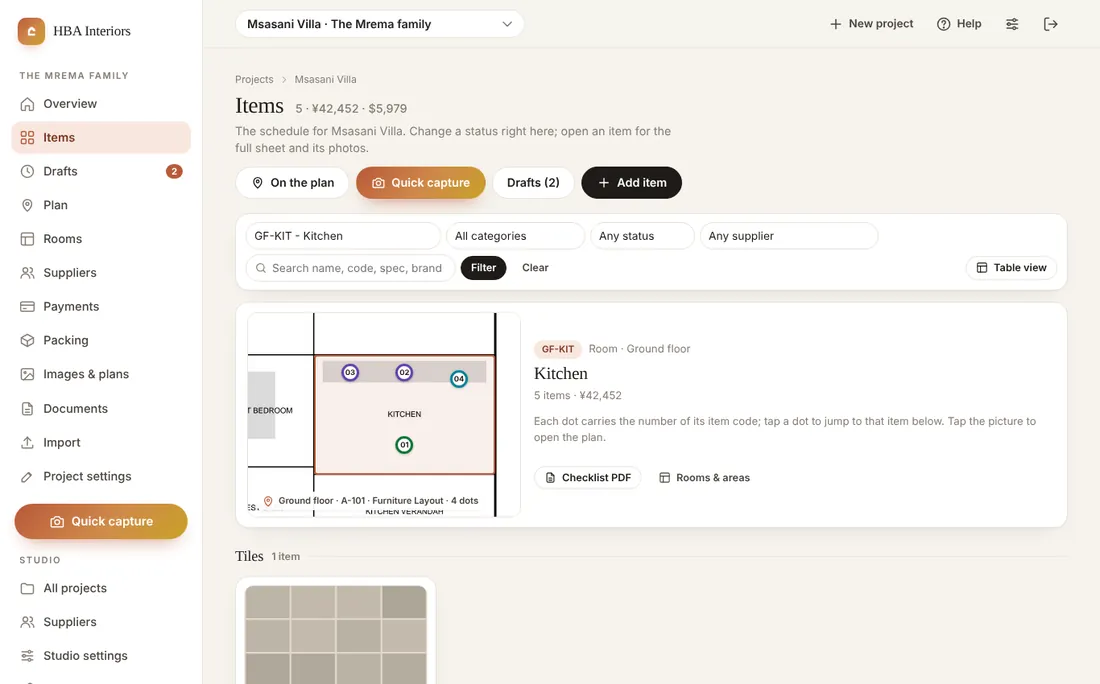
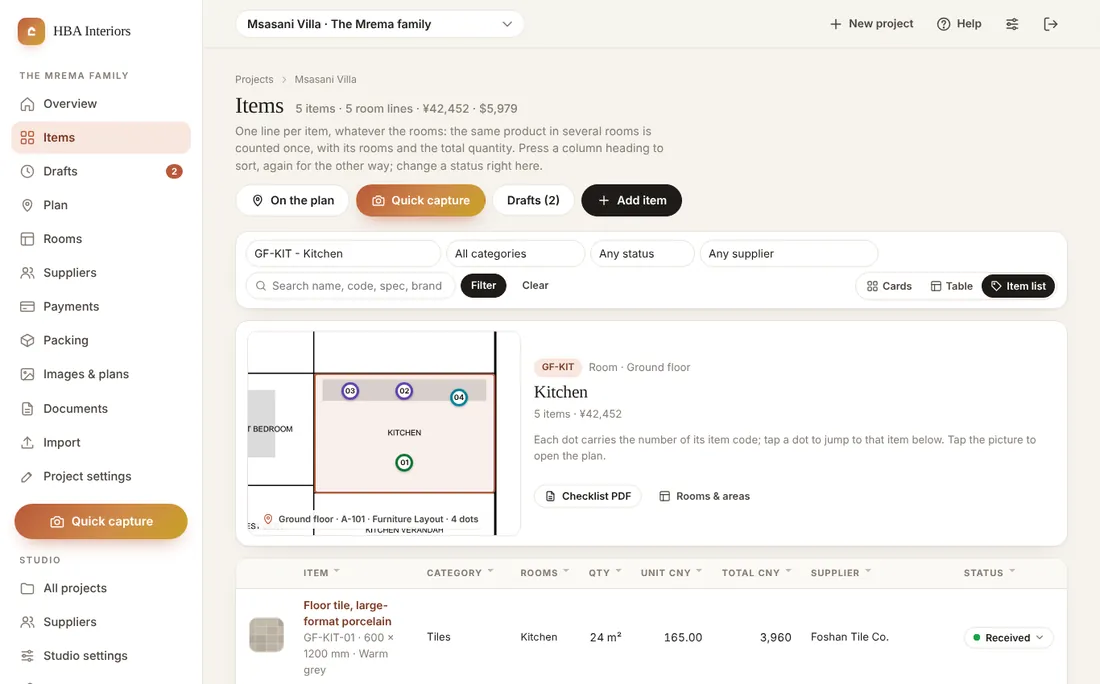
Items: the Item list is the default view
The Items page now opens on the Item list (one line per product across its rooms); Table and Cards stay one
press away in the view switch and every filter keeps the chosen view.

- An item that sits in one room gets the status dropdown right in the Item list, so quick status changes do
  not need the Table view; a product spread over several rooms keeps its count per status.
- Rows carry id="item-<first id>" and data-items="<all ids>", so a dot in the zoomed room still jumps to the
  product's line (app.js looks the row up by either).
- Page help, guide, README and CLAUDE.md say the Item list is the default; the three Items pictures in the
  guide regenerated; tests cover the default and the single-room dropdown.

Claude-Session: https://claude.ai/code/session_014dEEg4ZJoqKU3XFXeCpon9

diff --git a/ffe/app/templates/help.html b/ffe/app/templates/help.html
@@ -139,7 +139,7 @@
     <p>Two rules worth knowing now: the <b>category</b> decides which page of the client schedule the item prints on, and the <b>status</b> starts at <span class="badge" style="--c:{{ STATUS_COLORS['To buy'] }}">To buy</span> and follows the purchase from there.</p>
     <div class="shots">
       {{ shot('item-new', 'New item: tick every room that gets it. Each ticked room gets its own line with its own code.') }}
-      {{ shot('items', 'Items filtered by one room: the room zoomed in on its plan at the top, with a numbered dot per placed item, then the cards.') }}
+      {{ shot('items', 'Items filtered by one room: the room zoomed in on its plan, then its item list.') }}
     </div>
     <div class="shots">
       {{ shot('phone-capture', 'Quick capture on the phone: tag the next photos if you like, then shoot.', 'phone') }}
@@ -357,7 +357,7 @@
   </table></div>
   <h3>The list</h3>
   <ul>
-    <li>Filter by room or area, category, status, supplier or a search word (name, code, spec, brand). Three views, all keeping the filters: <b>Cards</b> groups by category with photos; <b>Table</b> is the compact sheet, one line per room, with the status dropdown; <b>Item list</b> shows one line per item whatever the rooms: the same product in several rooms is counted once, with its rooms, the total quantity and value, its suppliers and a count per status.</li>
+    <li>Filter by room or area, category, status, supplier or a search word (name, code, spec, brand). Three views, all keeping the filters: the <b>Item list</b> (the page opens on it) shows one line per item whatever the rooms: the same product in several rooms is counted once, with its rooms, the total quantity and value, its suppliers and a count per status (an item in one room has the status dropdown right there); <b>Table</b> is the compact sheet, one line per room, with the status dropdown; <b>Cards</b> groups by category with photos.</li>
     <li><b>Sorting.</b> In the Table and the Item list, press a column heading to sort: text A to Z, numbers smallest first, Status in purchase order (To buy first), Rooms by how many. Press the heading again for the other way; blank cells go last.</li>
     <li>Filtered by one room, the top of the list shows that room <b>zoomed in on its plan</b> with a numbered dot per placed item. Tap a dot to jump to the item; tap the picture to open the plan. Rooms not yet marked show a link to mark them.</li>
     <li><b>Quick capture</b> and <b>Add item</b> from here keep the current room and category.</li>
@@ -365,7 +365,7 @@
   <div class="shots">
     {{ shot('items-table', 'Table view, filtered by category: the compact sheet with a status dropdown per row. Press a heading to sort.') }}
     {{ shot('items-list', 'Item list, sorted by rooms: the same product in several rooms is one line, with its rooms, the total quantity and a count per status.') }}
-    {{ shot('phone-items', 'The same room filter on a phone: the zoomed room first, then the cards.', 'phone') }}
+    {{ shot('phone-items', 'The same room filter on a phone: the zoomed room first, then the item list.', 'phone') }}
   </div>
   <h3>Editing an item</h3>
   <ul>
@@ -542,7 +542,7 @@
   <details><summary>The app feels slow.</summary><p>Three different things look the same. The <b>first page after a quiet spell</b> takes a few seconds and the next ones are quick: Replit starts the app and the database wakes up, which is normal; an always-on deployment removes it. <b>Pages with many photos</b> slow on a device that has not seen them yet: open Studio settings and press <b>Make small versions</b> until no older photo is left, so lists load small copies. <b>Every page slow, even without photos:</b> the database is far from the app or asleep; tell your developer.</p></details>
   <details><summary>The electrical plan shows no room boxes.</summary><p>Boxes are drawn on the floor's main plan and borrowed by the other sheets of that floor. Check that both sheets carry the same floor name, and that the general floor plan is set to show "Main plan (general floor plan)" under Images &amp; plans. An electrical sheet uploaded before layers existed usually sits under its own floor name ("Ground Electrical"): the Images &amp; plans page shows a yellow note on it with a one-press fix. If the electrical sheet is framed differently and the borrowed boxes sit off, press Mark rooms on it and copy the boxes to adjust them there.</p></details>
   <details><summary>Can I change many prices or statuses at once?</summary><p>Yes, in Excel. Import → <b>Export all items</b>, change the cells, import the file back. Rows are matched by their <b>Code</b>, so the items are updated rather than added again; blank cells leave a value alone and <b>-</b> clears one. Photos and plan dots stay.</p></details>
-  <details><summary>I want one line per item, not one per room.</summary><p>Open Items and choose <b>Item list</b> in the view switch at the right of the filters. The same product in several rooms is one line there, with its rooms, the total quantity and value and a count per status. Press a column heading to sort; the Table view sorts the same way.</p></details>
+  <details><summary>I want one line per item, not one per room.</summary><p>Open Items: it opens on the <b>Item list</b> (the view switch at the right of the filters brings it back). The same product in several rooms is one line there, with its rooms, the total quantity and value and a count per status. Press a column heading to sort; the Table view sorts the same way.</p></details>
   <details><summary>I uploaded the plan, but the room is not listed under it on the Plan page.</summary><p>The room's floor and the plan's floor must have the same name. Check the floor on the Rooms page and under the plan on Images &amp; plans ("Ground" and "Ground floor" count as the same; "GF" does not). In mark mode, rooms of other floors are in the folded list below, so you can still place them.</p></details>
   <details><summary>The PDF pages were not ticked in the page picker.</summary><p>The PDF has no readable text (a scan or a flattened export), so there was nothing to read. Tick the plan pages and type the floor and sheet yourself. Everything else works the same.</p></details>
   <details><summary>A photo upload failed.</summary><p>Usually the Wi-Fi. Take the photo again; Quick capture keeps the ones that went through. Photos are shrunk before upload, so one photo at a time nearly always goes through even on a slow connection.</p></details>

diff --git a/ffe/app/templates/items/list.html b/ffe/app/templates/items/list.html
@@ -4,13 +4,13 @@
 {% block content %}
 {% set qroom = f.room if f.room not in ('', 'none') else '' %}
 {% set filtering = f.room or f.category or f.status or f.supplier or f.q %}
-{% set view = f.view if f.view in ('table', 'list') else 'cards' %}
+{% set view = f.view if f.view in ('cards', 'table') else 'list' %}
 {% set qs_ = qs ~ '&' if qs else '' %}
 <div class="page-head">
   <div>
     <div class="crumbs"><a href="/">Projects</a><svg class="ic"><use href="#i-chevron-right"/></svg><a href="/p/{{ p.id }}">{{ p.name }}</a></div>
     <h1>Items <span class="h-note">{% if view == 'list' %}{{ rows|length }} item{{ 's' if rows|length != 1 }} · {{ items|length }} room line{{ 's' if items|length != 1 }}{% else %}{{ items|length }}{% endif %} · ¥{{ total|money }} · ${{ (total/(p.rate or 1))|money }}</span></h1>
-    <p class="sub">{% if view == 'list' %}One line per item, whatever the rooms: the same product in several rooms is counted once, with its rooms and the total quantity. Press a column heading to sort, again for the other way.{% elif view == 'table' %}One line per room, the compact sheet. Press a column heading to sort, again for the other way; change a status right here.{% else %}The schedule for {{ p.name }}, grouped by category. Change a status right here; open an item for the full sheet and its photos.{% endif %}</p>
+    <p class="sub">{% if view == 'list' %}One line per item, whatever the rooms: the same product in several rooms is counted once, with its rooms and the total quantity. Press a column heading to sort, again for the other way; change a status right here.{% elif view == 'table' %}One line per room, the compact sheet. Press a column heading to sort, again for the other way; change a status right here.{% else %}The schedule for {{ p.name }}, grouped by category. Change a status right here; open an item for the full sheet and its photos.{% endif %}</p>
   </div>
   <div class="actions">
     {% if qroom %}<a class="btn sec" href="/p/{{ p.id }}/plan?room={{ qroom }}" title="Show this room on the floor plan"><svg class="ic"><use href="#i-map"/></svg>On the plan</a>{% endif %}
@@ -26,9 +26,9 @@
   <select name="status" class="in" aria-label="Status"><option value="">Any status</option>{% for st in STATUSES %}<option {{ 'selected' if f.status == st }}>{{ st }}</option>{% endfor %}</select>
   <select name="supplier" class="in" aria-label="Supplier"><option value="">Any supplier</option>{% for s in suppliers %}<option value="{{ s.id }}" {{ 'selected' if f.supplier == s.id|string }}>{{ s.name }}</option>{% endfor %}</select>
   <span class="search"><svg class="ic"><use href="#i-search"/></svg><input class="in" type="text" name="q" value="{{ f.q }}" placeholder="Search name, code, spec, brand" aria-label="Search"></span>
-  {% if f.view %}<input type="hidden" name="view" value="{{ f.view }}">{% endif %}
+  {% if view != 'list' %}<input type="hidden" name="view" value="{{ view }}">{% endif %}
   <button class="btn sm">Filter</button>
-  <a class="btn ghost sm" href="/p/{{ p.id }}/items{% if f.view %}?view={{ f.view }}{% endif %}">Clear</a>
+  <a class="btn ghost sm" href="/p/{{ p.id }}/items{% if view != 'list' %}?view={{ view }}{% endif %}">Clear</a>
   <span class="sp"></span>
   <nav class="seg" aria-label="View">
     <a href="/p/{{ p.id }}/items?{{ qs_ }}view=cards" class="{{ 'on' if view == 'cards' }}"{% if view == 'cards' %} aria-current="page"{% endif %} title="Cards grouped by category"><svg class="ic"><use href="#i-grid"/></svg>Cards</a>
@@ -90,7 +90,7 @@
   <thead><tr><th></th><th data-sort="text">Item</th><th data-sort="text">Category</th><th data-sort="num">Rooms</th><th class="num" data-sort="num">Qty</th><th class="num" data-sort="num">Unit CNY</th><th class="num" data-sort="num">Total CNY</th><th data-sort="text">Supplier</th><th data-sort="num">Status</th></tr></thead>
   <tbody>
   {% for g in rows %}{% set i = g.item %}
-  <tr id="group-{{ i.id }}">
+  <tr id="item-{{ i.id }}" data-items="{% for r in g.rows %}{{ r.id }}{% if not loop.last %} {% endif %}{% endfor %}">
     <td>{% if g.cover %}<a href="/p/{{ p.id }}/items/{{ i.id }}"><img class="thumb sm" src="/media/{{ g.cover.thumb }}" alt=""></a>{% endif %}</td>
     <td data-v="{{ i.name }}"><a class="b" href="/p/{{ p.id }}/items/{{ i.id }}">{{ i.name }}</a>{% if i.optional %} <span class="pill">optional</span>{% endif %}<div class="small muted">{{ g.codes }}{% if i.size or i.finish %} · {{ i.size }}{% if i.size and i.finish %} · {% endif %}{{ i.finish }}{% endif %}</div></td>
     <td class="small">{{ i.category }}</td>
@@ -100,7 +100,7 @@
     <td class="num" data-v="{{ g.price_min if g.price_min else '' }}">{% if g.price_min %}{{ g.price_min|money(2) }}{% if g.price_max != g.price_min %}–{{ g.price_max|money(2) }}{% endif %}{% endif %}</td>
     <td class="num" data-v="{{ g.total if g.total else '' }}">{{ g.total|money if g.total else '' }}</td>
     <td class="small nowrap">{% for s in g.suppliers %}{{ s.name }}{% if not loop.last %}, {% endif %}{% endfor %}</td>
-    <td data-v="{{ g.status_rank }}" class="small nowrap">{% for s, n in g.statuses|dictsort(by='value', reverse=true) %}<span class="badge" style="--c:{{ STATUS_COLORS[s] }}">{{ s }}{% if g.statuses|length > 1 or n > 1 %} · {{ n }}{% endif %}</span> {% endfor %}</td>
+    <td data-v="{{ g.status_rank }}" class="small nowrap">{% if g.rows|length == 1 %}<select class="status-sel" data-url="/p/{{ p.id }}/items/{{ i.id }}/status" style="--c:{{ STATUS_COLORS[i.status] }}" aria-label="Status">{% for st in STATUSES %}<option {{ 'selected' if i.status == st }}>{{ st }}</option>{% endfor %}</select>{% else %}{% for s, n in g.statuses|dictsort(by='value', reverse=true) %}<span class="badge" style="--c:{{ STATUS_COLORS[s] }}">{{ s }} · {{ n }}</span> {% endfor %}{% endif %}</td>
   </tr>
   {% endfor %}
   </tbody>

diff --git a/ffe/app/static/app.js b/ffe/app/static/app.js
@@ -100,7 +100,7 @@
   document.addEventListener('toggle', function (e) { if (e.target && e.target.tagName === 'DETAILS') fitZooms(e.target); }, true);
   document.addEventListener('click', function (e) {  // a dot jumps to its item on the page instead of opening the plan
     var d = e.target.closest('.rz-dot'); if (!d || !d.dataset.item) return;
-    var row = document.getElementById('item-' + d.dataset.item); if (!row) return;
+    var row = document.getElementById('item-' + d.dataset.item) || document.querySelector('[data-items~="' + d.dataset.item + '"]'); if (!row) return;
     e.preventDefault(); e.stopPropagation();
     document.querySelectorAll('.hl').forEach(function (x) { x.classList.remove('hl'); });
     row.classList.add('hl'); row.scrollIntoView({ block: 'center', behavior: 'smooth' });

diff --git a/ffe/tests/test_flow.py b/ffe/tests/test_flow.py
@@ -661,8 +661,10 @@ with TestClient(app) as c:
     assert '<table class="sortable">' in h and '<th data-sort="text">Code</th>' in h and '<th class="num" data-sort="num">Total CNY</th>' in h and '<th data-sort="num">Status</th>' in h
     assert h.count('data-v="Reading light"')==3 and 'data-v="150.0"' in h and f'href="/p/{pid_p}/items?category=Lighting&amp;view=list"' in h and 'aria-current="page" title="One line per room' in h and f'href="/p/{pid_p}/items?view=table">Clear</a>' in h
     r=c.get(f"/p/{pid_p}/items?view=list&q=Reading"); h=r.text
-    assert h.count('<tr id="group-')==1 and '>3 rooms</a>' in h and '6 pcs</td>' in h and 'data-v="900.0">900</td>' in h and "1 item · 3 room lines" in h and 'To buy · 3</span>' in h and '<th data-sort="num">Rooms</th>' in h
-    assert '<tr id="item-' not in h and "Press a column heading to sort" in h and c.get(f"/p/{pid_p}/items?view=list").text.count('<tr id="group-')>=5
+    assert h.count('<tr id="item-')==1 and re.search(r'data-items="\d+ \d+ \d+"', h) and '>3 rooms</a>' in h and '6 pcs</td>' in h and 'data-v="900.0">900</td>' in h and "1 item · 3 room lines" in h and 'To buy · 3</span>' in h and '<th data-sort="num">Rooms</th>' in h
+    assert "status-sel" not in h and "Press a column heading to sort" in h and c.get(f"/p/{pid_p}/items?view=list").text.count('<tr id="item-')>=5
+    h=c.get(f"/p/{pid_p}/items").text; assert 'aria-current="page" title="One line per item' in h and h.count('<tr id="item-')>=5 and 'name="view"' not in h  # the Item list is the default view
+    h=c.get(f"/p/{pid_p}/items?q=Bedside lamp").text; assert h.count('<tr id="item-')==1 and 'class="status-sel"' in h  # one room: the status dropdown right there
     db=SessionLocal(); prp=db.get(_P,int(pid_p)); gs={g["item"].name:g for g in _gi(_si(list(prp.live_items), prp))}; db.close()
     assert len(gs["Reading light"]["rows"])==3 and gs["Reading light"]["qty"]==6 and gs["Reading light"]["total"]==900 and gs["Reading light"]["status_text"]=="To buy" and gs["Reading light"]["unit"]=="pcs" and len(gs["Reading light"]["rooms"])==3
     assert len(gs["Bedside lamp"]["rows"])==1 and gs["Bedside lamp"]["rooms"][0].code=="FF-MBR" and gs["Bedside lamp"]["codes"]=="FF-MBR-01"
@@ -670,7 +672,7 @@ with TestClient(app) as c:
     c.post(f"/p/{pid_p}/items/{rl_id}/status", data={"status":"Ordered"}, headers={"Accept":"application/json"})
     db=SessionLocal(); prp=db.get(_P,int(pid_p)); g=[g for g in _gi(_si(list(prp.live_items), prp)) if g["item"].name=="Reading light"][0]; db.close()
     assert g["status_text"]=="2 To buy, 1 Ordered" and g["status_rank"]==0 and g["price_min"]==g["price_max"]==150
-    h=c.get(f"/p/{pid_p}/items?view=list&q=Reading").text; assert 'To buy · 2</span>' in h and 'Ordered · 1</span>' in h and '<td data-v="0" class="small nowrap">' in h  # sorts by the least advanced status
+    h=c.get(f"/p/{pid_p}/items?view=list&q=Reading").text; assert 'To buy · 2</span>' in h and 'Ordered · 1</span>' in h and '<td data-v="0" class="small nowrap">' in h  and "status-sel" not in h  # sorts by the least advanced status
     print("item list + sorting ok")
     # speed: small copies of photos, the picture cache and headers, compression, static versioning, few queries per page
     from app.models import ItemPhoto as _IP

diff --git a/ffe/app/help_tips.py b/ffe/app/help_tips.py
@@ -92,7 +92,7 @@ TIPS = {
         what="The schedule itself: one line per product per room, with spec, photo, quantity, price, supplier and status.",
         steps=["Press <b>Add item</b> to type one in, or <b>Quick capture</b> to shoot samples first and name them later.",
                "Change a <b>status</b> straight from the dropdown on a card or a table row.",
-               "Filter by room, category, status, supplier or a search word. Switch between <b>Cards</b>, the <b>Table</b> (one line per room) and the <b>Item list</b> (one line per item across its rooms, with its rooms and the total quantity).",
+               "Filter by room, category, status, supplier or a search word. The page opens on the <b>Item list</b> (one line per item across its rooms, with its rooms and the total quantity); switch to the <b>Table</b> (one line per room) or <b>Cards</b> (by category, with photos) at the right of the filters.",
                "In the Table and the Item list, press a <b>column heading</b> to sort: A to Z or smallest first, press again for the other way.",
                "Filtered by one room, the top shows that room zoomed in on the plan; tap a dot to jump to its item."],
         tips=["The status follows the purchase: To buy → Quoted → Ordered → Paid → Shipped → Received.",

diff --git a/ffe/app/routers/items.py b/ffe/app/routers/items.py
@@ -75,6 +75,7 @@ def list_items(request: Request, p: Project = Depends(get_project), db: Session 
     drafts = db.query(Item).filter(Item.project_id == p.id, Item.draft == True).count()  # noqa: E712
     room_obj = next((r for r in p.rooms if r.id == fint(room)), None) if room and room != "none" else None
     zoom = drawings.room_zoom(p, room_obj, items) if room_obj is not None else None  # the room on the plan, zoomed, with its dots
+    view = view if view in ("cards", "table", "list") else "list"  # the Item list (one line per product) is the default view
     f = dict(room=room, category=category, status=status, supplier=supplier, q=q, view=view)
     qs = urlencode({k: v for k, v in f.items() if v and k != "view"})  # the filters, for the view switch links
     rows = group_items(items) if view == "list" else None  # the Item list view: one line per product across its rooms

diff --git a/ffe/README.md b/ffe/README.md
@@ -10,7 +10,7 @@ same data, entered once.
 |---|---|
 | Projects | One per client project. USD/CNY rate, budget, delivery address, status. |
 | Rooms & areas | Codes (GF-KIT …) used on every item, box and label. Once an entry is marked on the plan, the Rooms page and the item list filtered by it show it **zoomed in on the plan** with its item dots (numbered like the item codes; a dot jumps to the item), and page one of its checklist PDF is that same zoomed view. Each entry is a **room** (a space you furnish) or an **area** (a zone that still carries items: entrance, corridors, stairs, balconies, carport, whole house); areas list after rooms and count separately ("10 rooms · 5 areas") on the Rooms page, the plan, the Overview and the PDFs. Kind is guessed from the name for entries the import creates (an existing entry keeps its kind unless the sheet has a Kind column) and for all entries on "Sort rooms & areas by name"; any entry can be switched. The Excel export writes the Kind column, so a re-import keeps hand-set kinds. Optional floor/wall areas for tiles. |
-| Items | Room, category (= schedule page), name, must-have spec, brand, size, finish, qty, unit price typed in **CNY or USD** (stored in CNY at the project's rate; a USD entry is remembered so the form shows it again), supplier, lead time, status (To buy → Quoted → Ordered → Paid → Shipped → Received), photos from the phone camera. The Items page has three views that keep the filters: **Cards** by category, the **Table** (one line per room) and the **Item list** (one line per product across its rooms: rooms, total quantity and value, suppliers, a count per status). Table and Item list sort by any column heading (text A to Z, numbers smallest first, status in purchase order; again for the other way). |
+| Items | Room, category (= schedule page), name, must-have spec, brand, size, finish, qty, unit price typed in **CNY or USD** (stored in CNY at the project's rate; a USD entry is remembered so the form shows it again), supplier, lead time, status (To buy → Quoted → Ordered → Paid → Shipped → Received), photos from the phone camera. The Items page has three views that keep the filters: the **Item list** (the default: one line per product across its rooms, with rooms, total quantity and value, suppliers, a count per status, and the status dropdown for an item in one room), the **Table** (one line per room) and **Cards** by category. Table and Item list sort by any column heading (text A to Z, numbers smallest first, status in purchase order; again for the other way). |
 | Items in several rooms | A new item can be ticked into several rooms at once (quick-pick chips tick all bedrooms, all bathrooms, a floor, all rooms or all areas in one tap; `Room.group` reads bedroom / bathroom from the name or the code) (one line per room, each with its own code, qty and status; photos are copied to each). An existing item can be added to more rooms from its page. The same product across rooms is recognised by its name: editing one can apply the name, category, spec, size, finish, brand, price, unit, lead time and supplier to every room using it (qty, status, notes and photos stay per room). |
 | Quick capture | Photo-first entry for showrooms: the camera opens, every photo is saved at once as a **draft** item (room/category optional), keep shooting. Drafts are completed later on the Drafts page (name, room, category, qty, price → item code generated) or discarded. Drafts do not count in totals, PDFs, Excel or share links until they have a name. |
 | Save from web | Pictures from any website (supplier catalogue, Pinterest pin, Taobao, 1688): paste a picture or page link on the item form or the Mood board page, or use the **Save to HBA** button from `/clip` (iOS Share-sheet Shortcut or Safari bookmarklet; the page also has a Paste button and remembers the last project) to clip the page's main picture into a project as a draft item or a mood-board image. Pictures are downloaded server-side, shrunk and stored like uploads. |

diff --git a/ffe/CLAUDE.md b/ffe/CLAUDE.md
@@ -291,7 +291,7 @@ ALTER TABLE item_photos ADD COLUMN thumb_key VARCHAR(255) NOT NULL DEFAULT '';  
   that the page picker promotes a floor's only furniture layout to the main plan; `legacy_layer_hint` never suggests
   turning a floor's only sheet into a furniture layer. A plan from before layers filed as its own floor ("Ground
   Electrical") gets `drawings.legacy_layer_hint` → a yellow one-press form posting floor + layer to the existing
-  `POST /p/<id>/images/<image_id>`. The Items page has a three-way view switch (`?view=cards|table|list`, filters kept via
+  `POST /p/<id>/images/<image_id>`. The Items page has a three-way view switch (`?view=cards|table|list`, `list` is the default, filters kept via
   `qs`): the Table and the new Item list (`items.group_items`: one line per product name across rooms, qty / value summed,
   statuses counted, `status_rank` for sorting) are `table.sortable`; `app.js` sorts client-side on `th[data-sort="text|num"]`
   (cells may carry `data-v`; a status `<select>` sorts by its index, blanks last). Other tables can opt in the same way.
